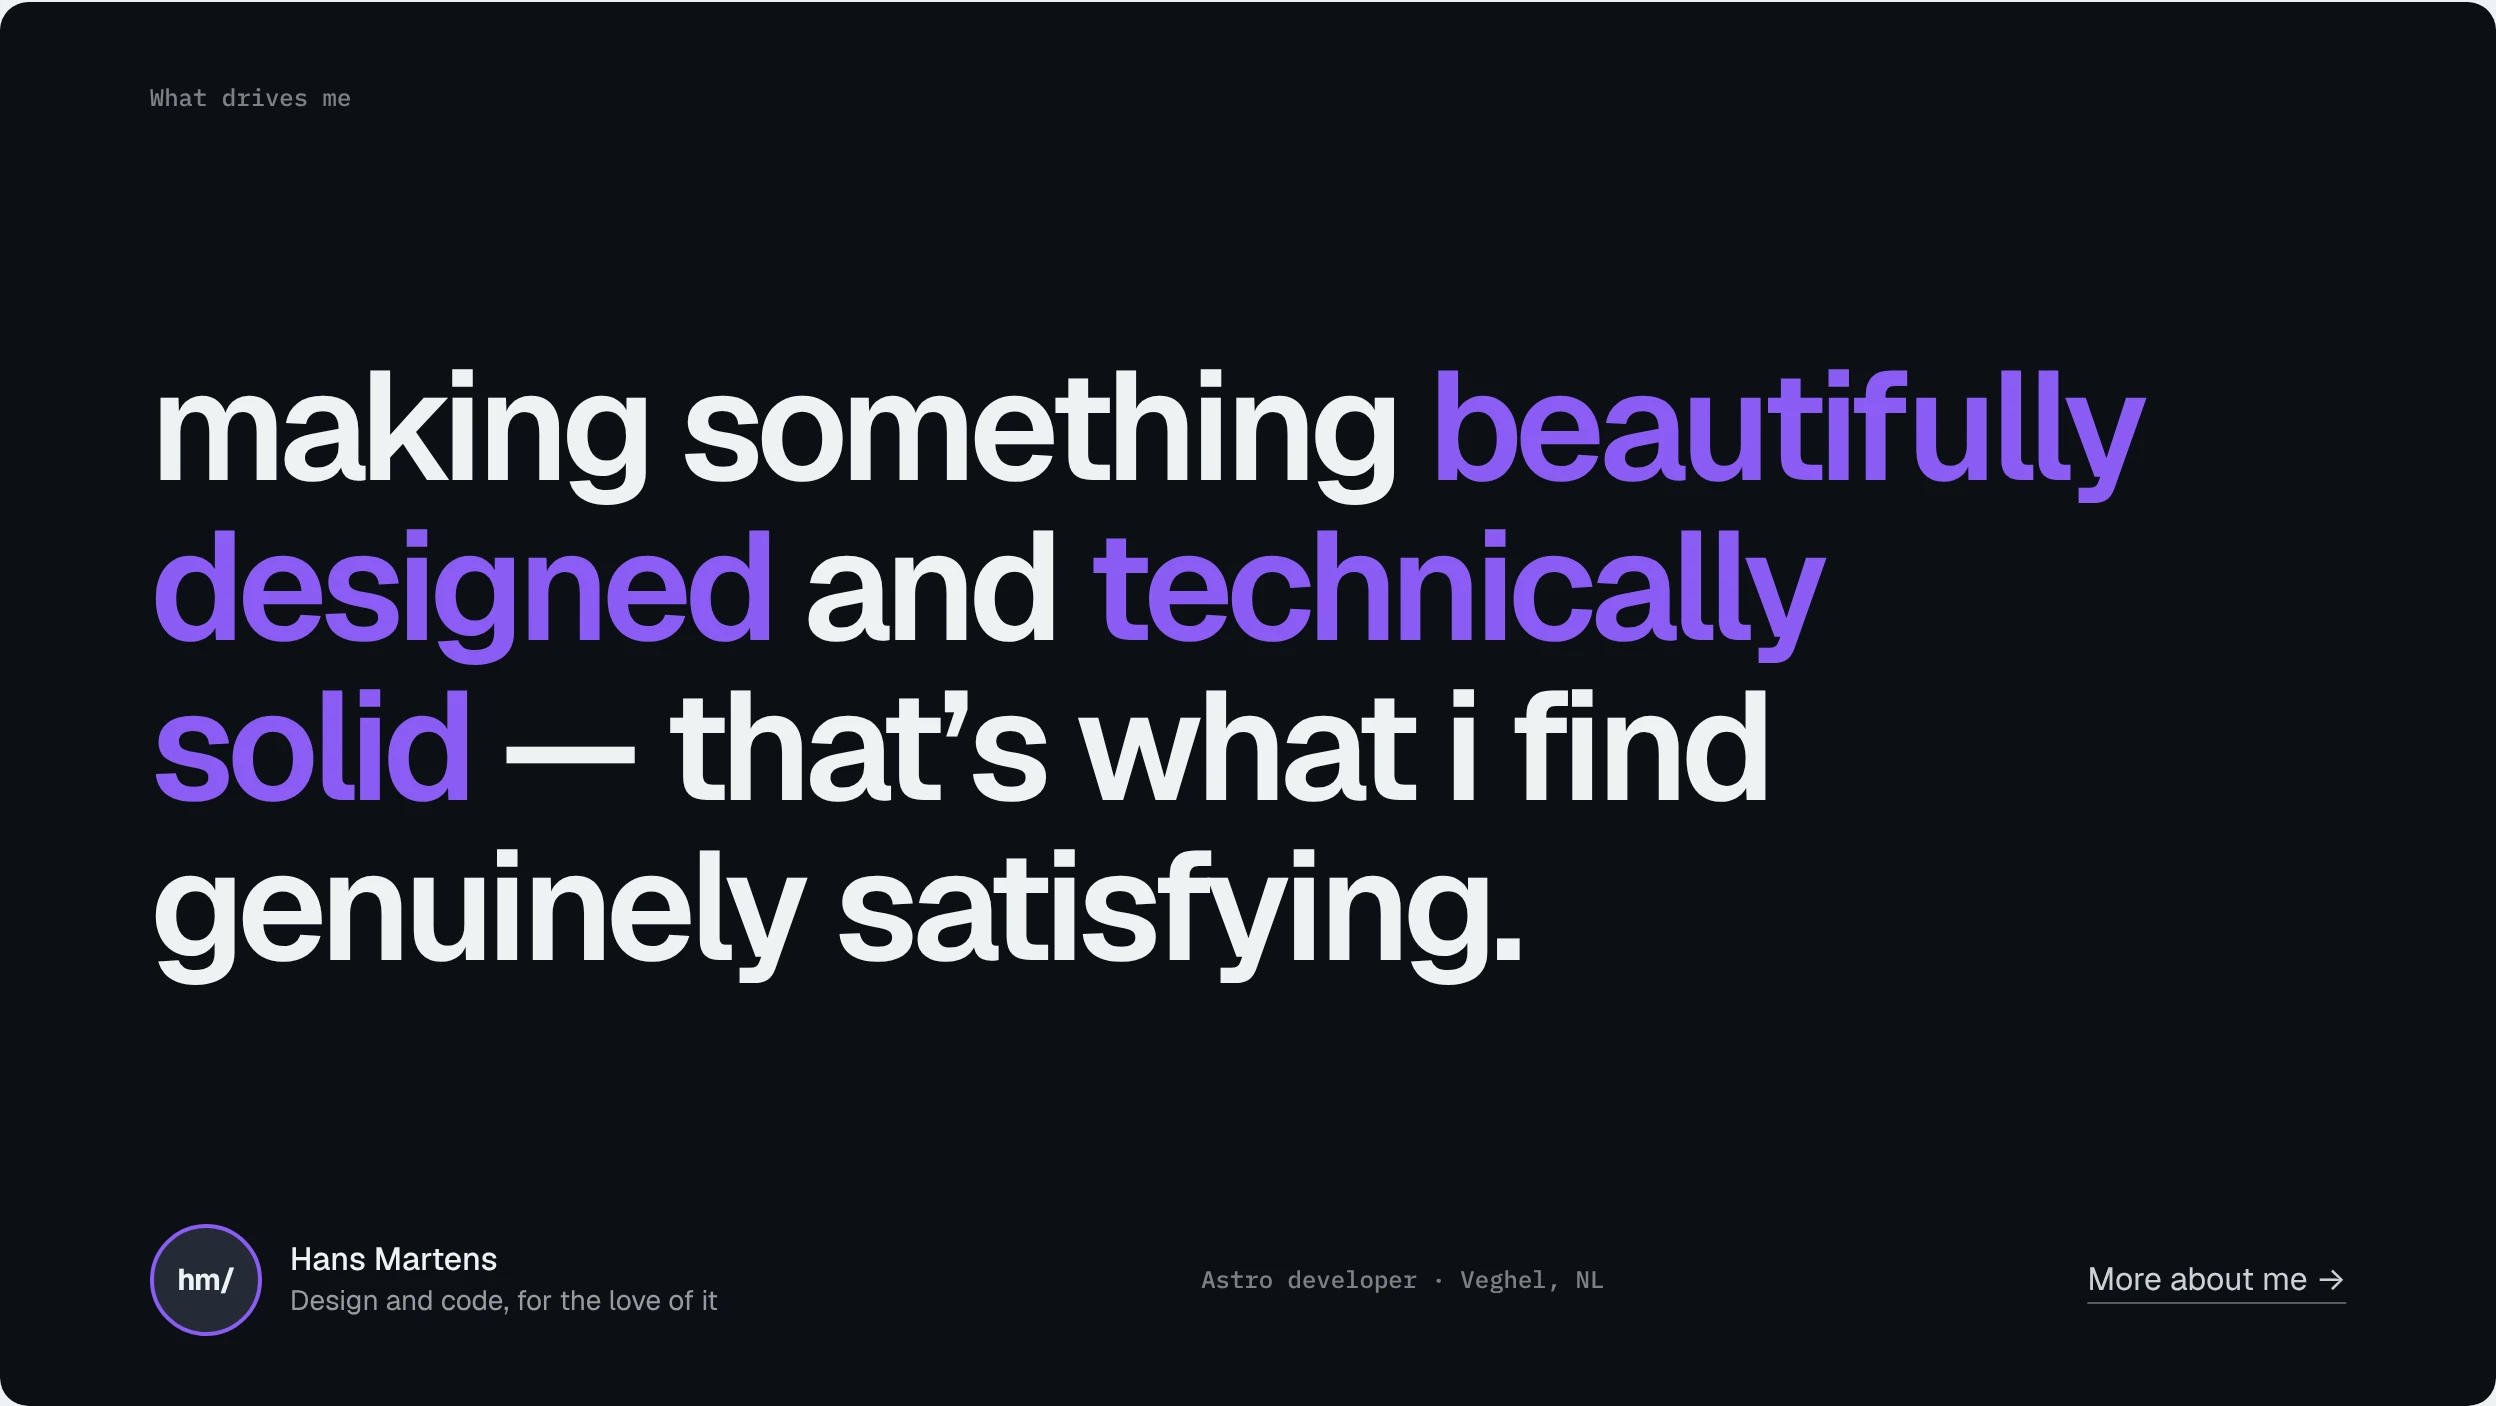
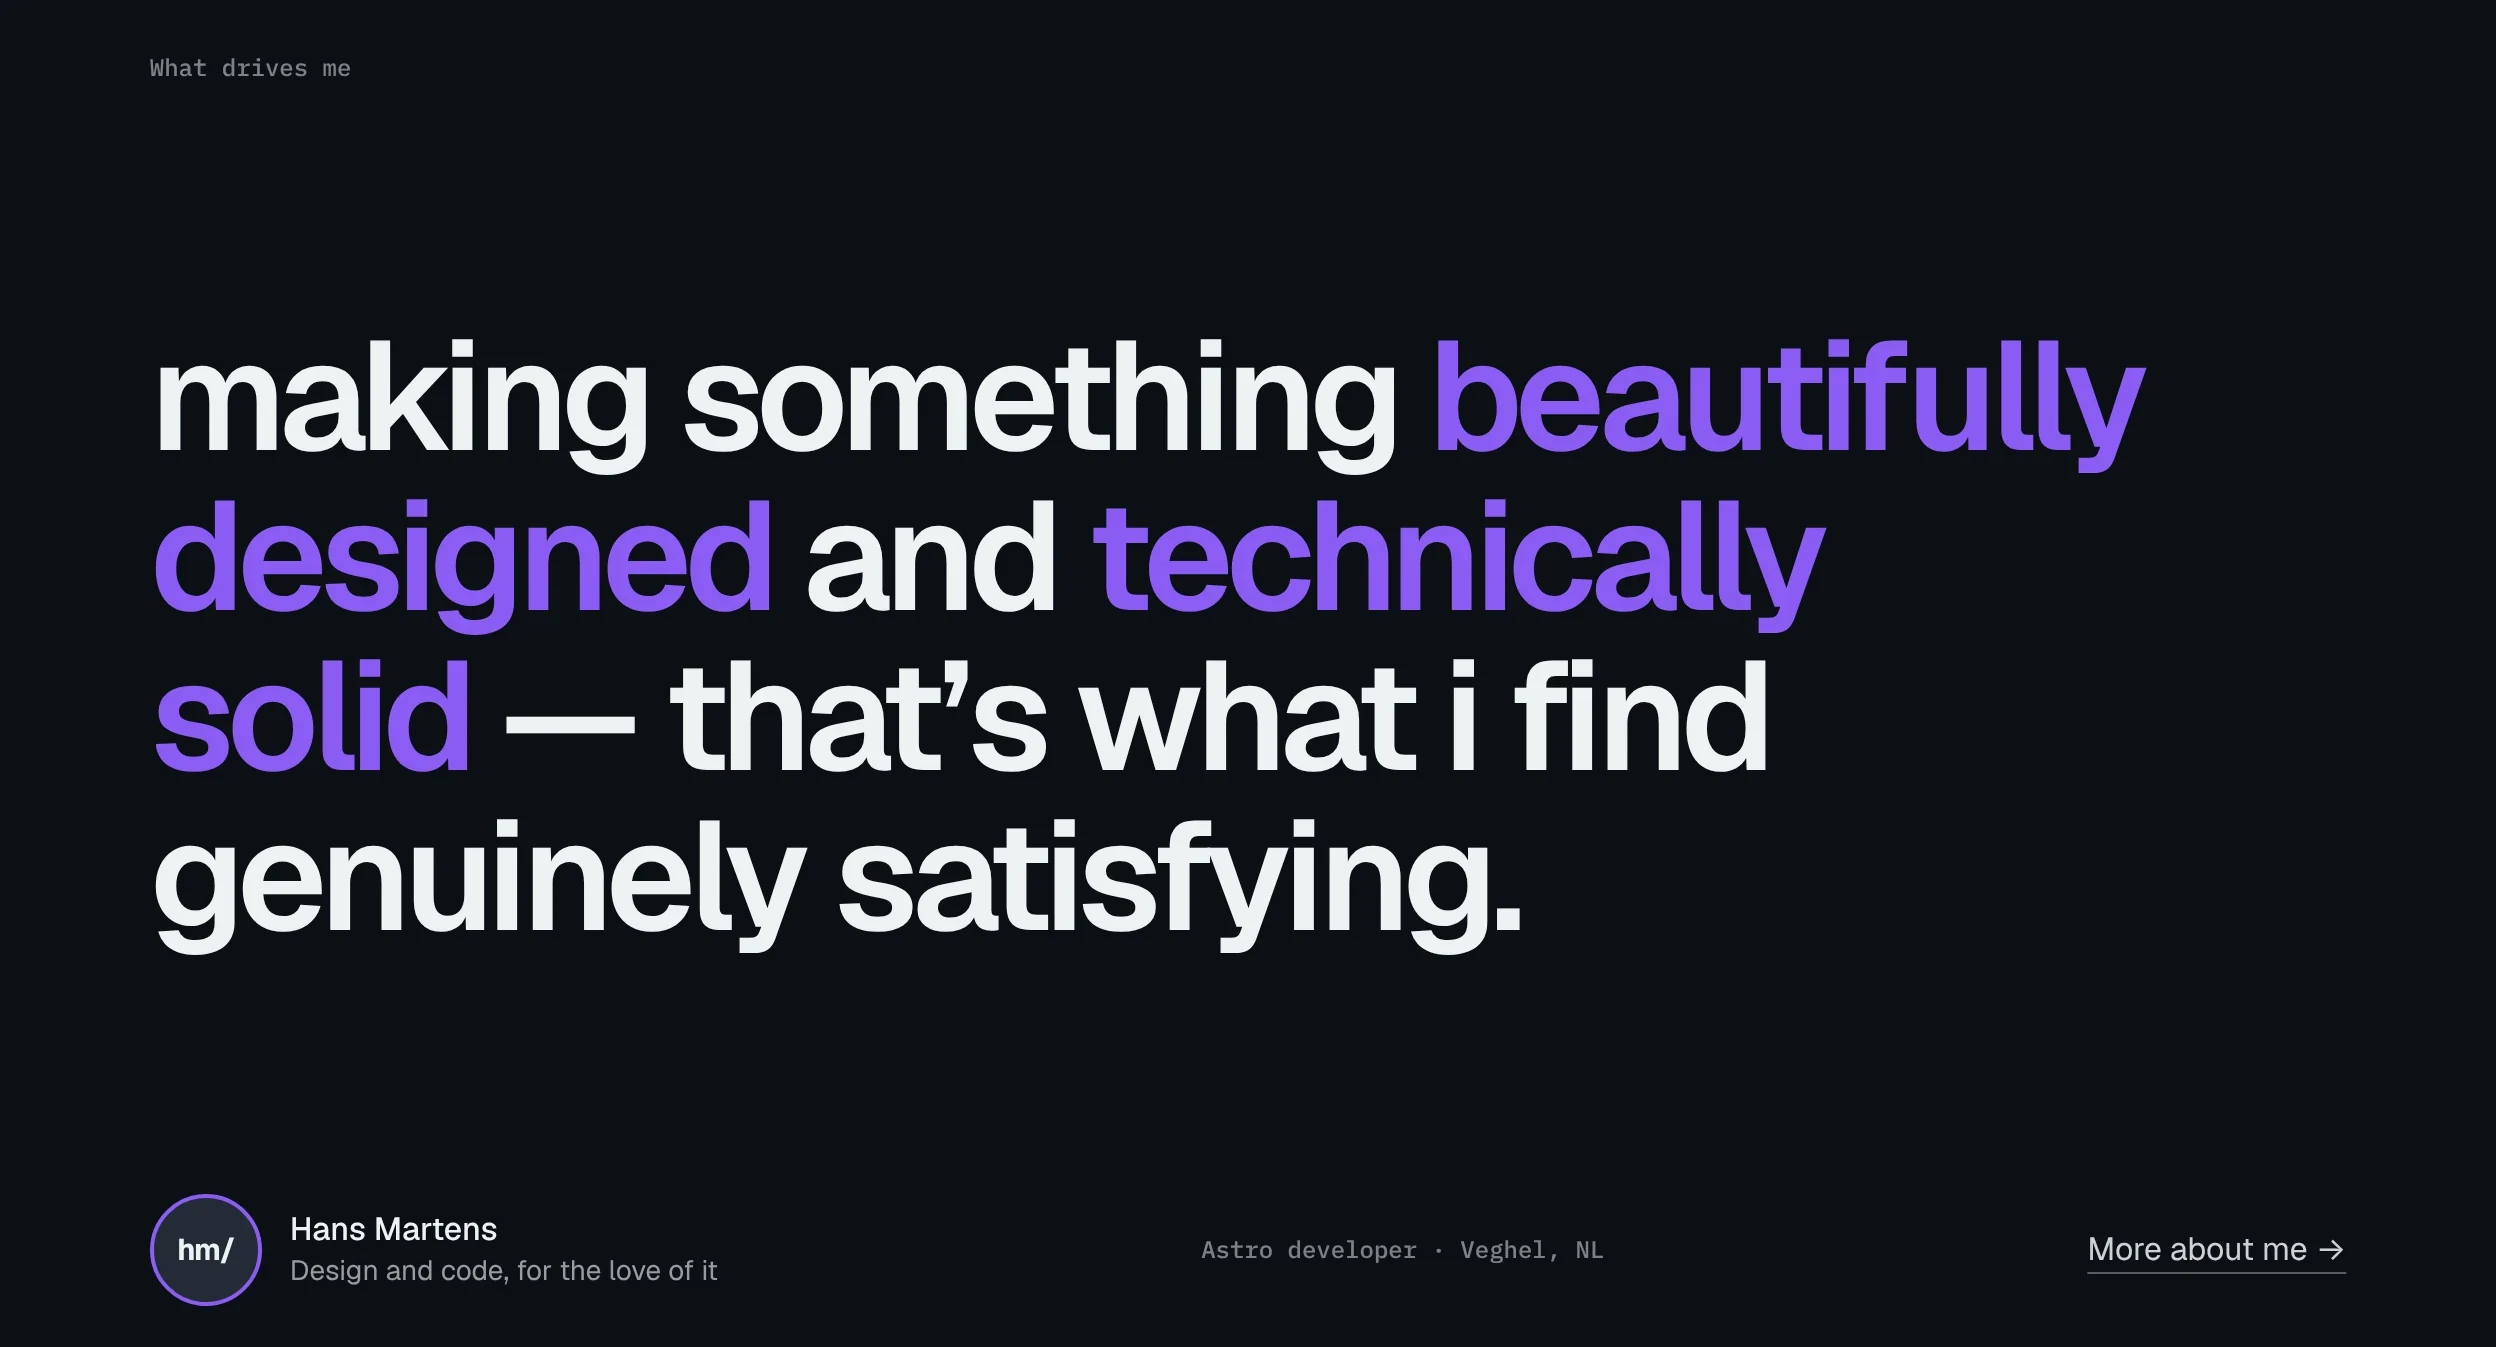
Project 1: a border all round the quote card
The capture's light corners and top line are cropped off, and on the
dark band a framed picture gets a light border so it stays visible.

Claude-Session: https://claude.ai/code/session_01QQKtzRrqmVqCvb8agowgiA

diff --git a/src/content/work/hansmartens-dev.md b/src/content/work/hansmartens-dev.md
@@ -13,6 +13,7 @@ gallery:
     alt: "hansmartens.dev on a MacBook and two iPhones, close up"
   - src: "../../assets/work/hansmartens-dev/statement-card.webp"
     alt: "The What drives me card from the homepage, with Hans's quote in white and violet"
+    frame: true
   - src: "../../assets/work/hansmartens-dev/blog-post.webp"
     alt: "A blog post on hansmartens.dev, opening with its dark violet header card"
     frame: true
